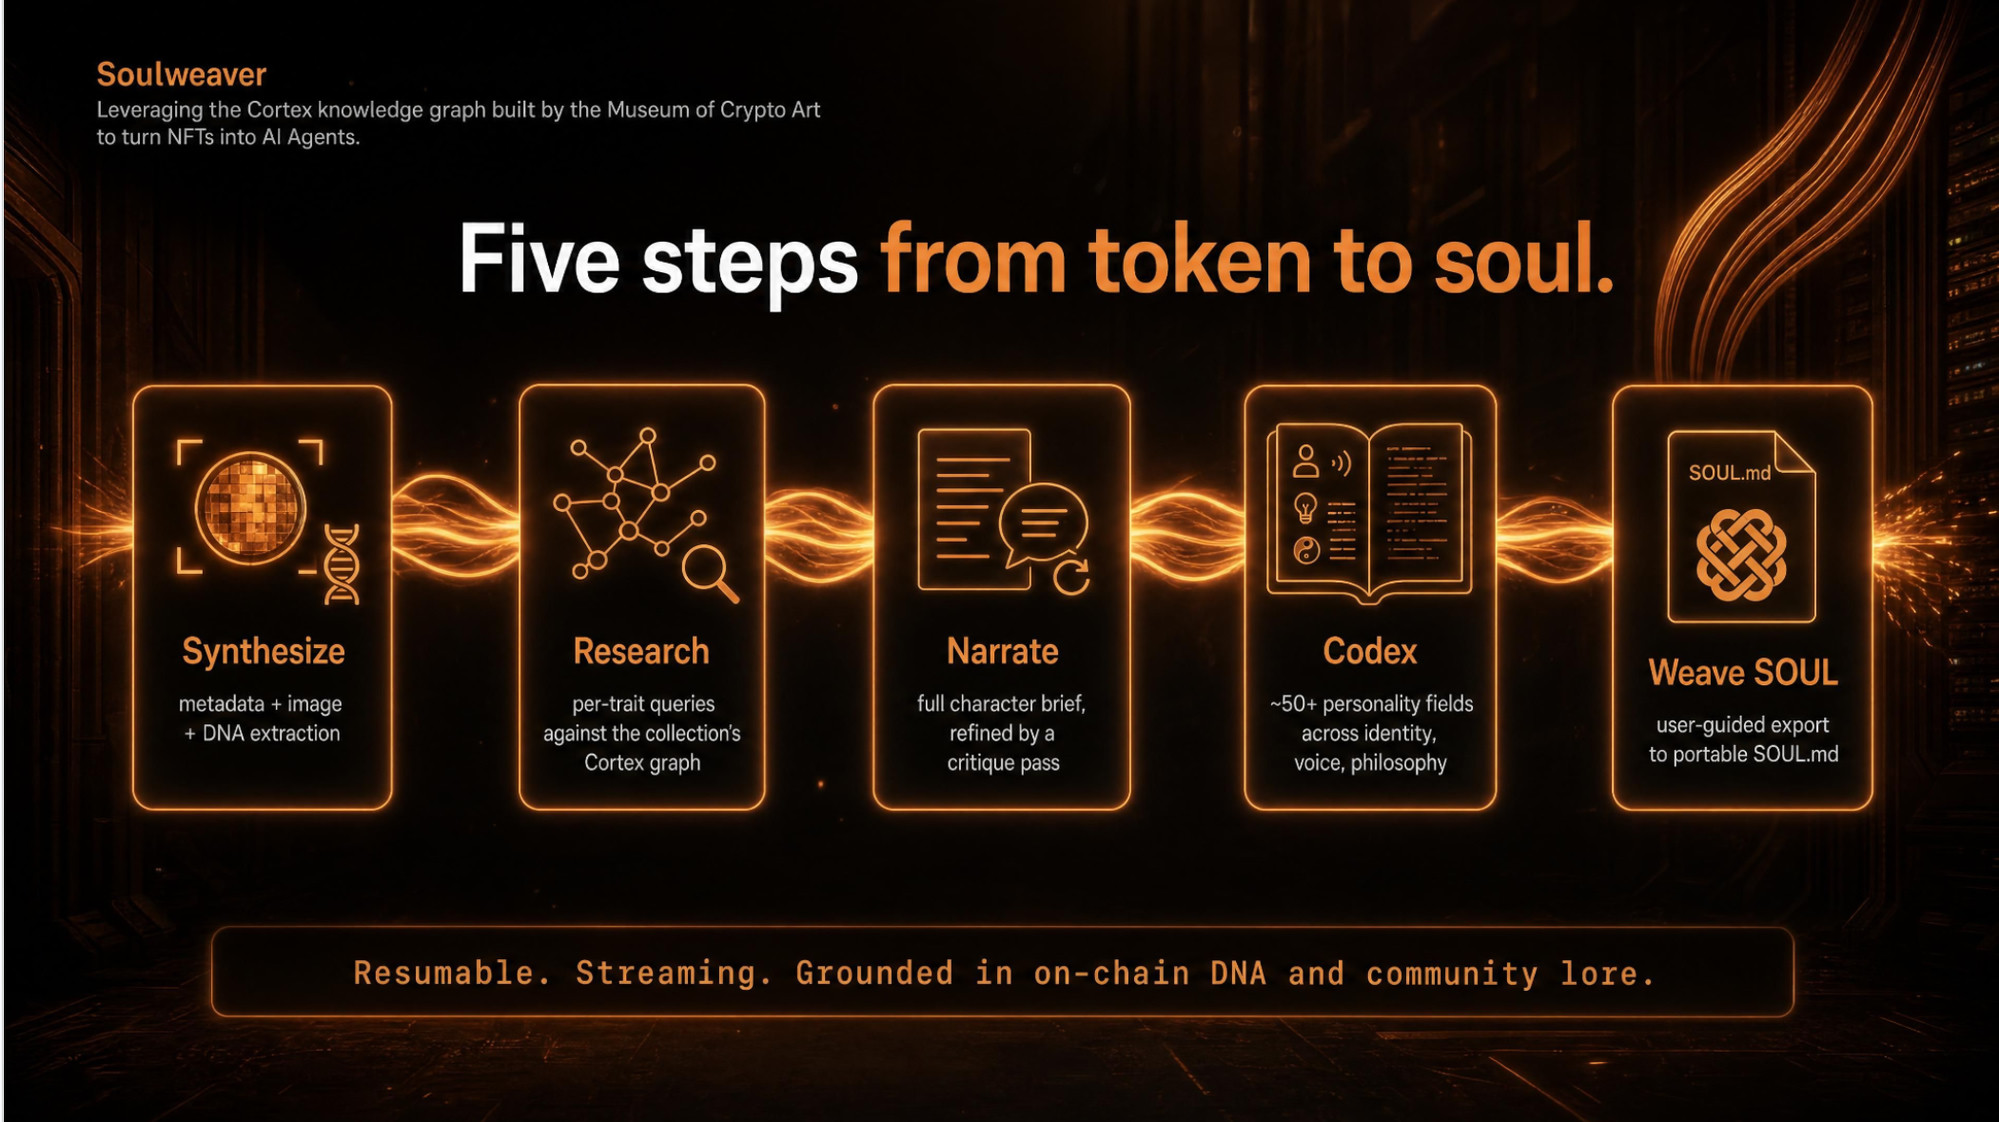
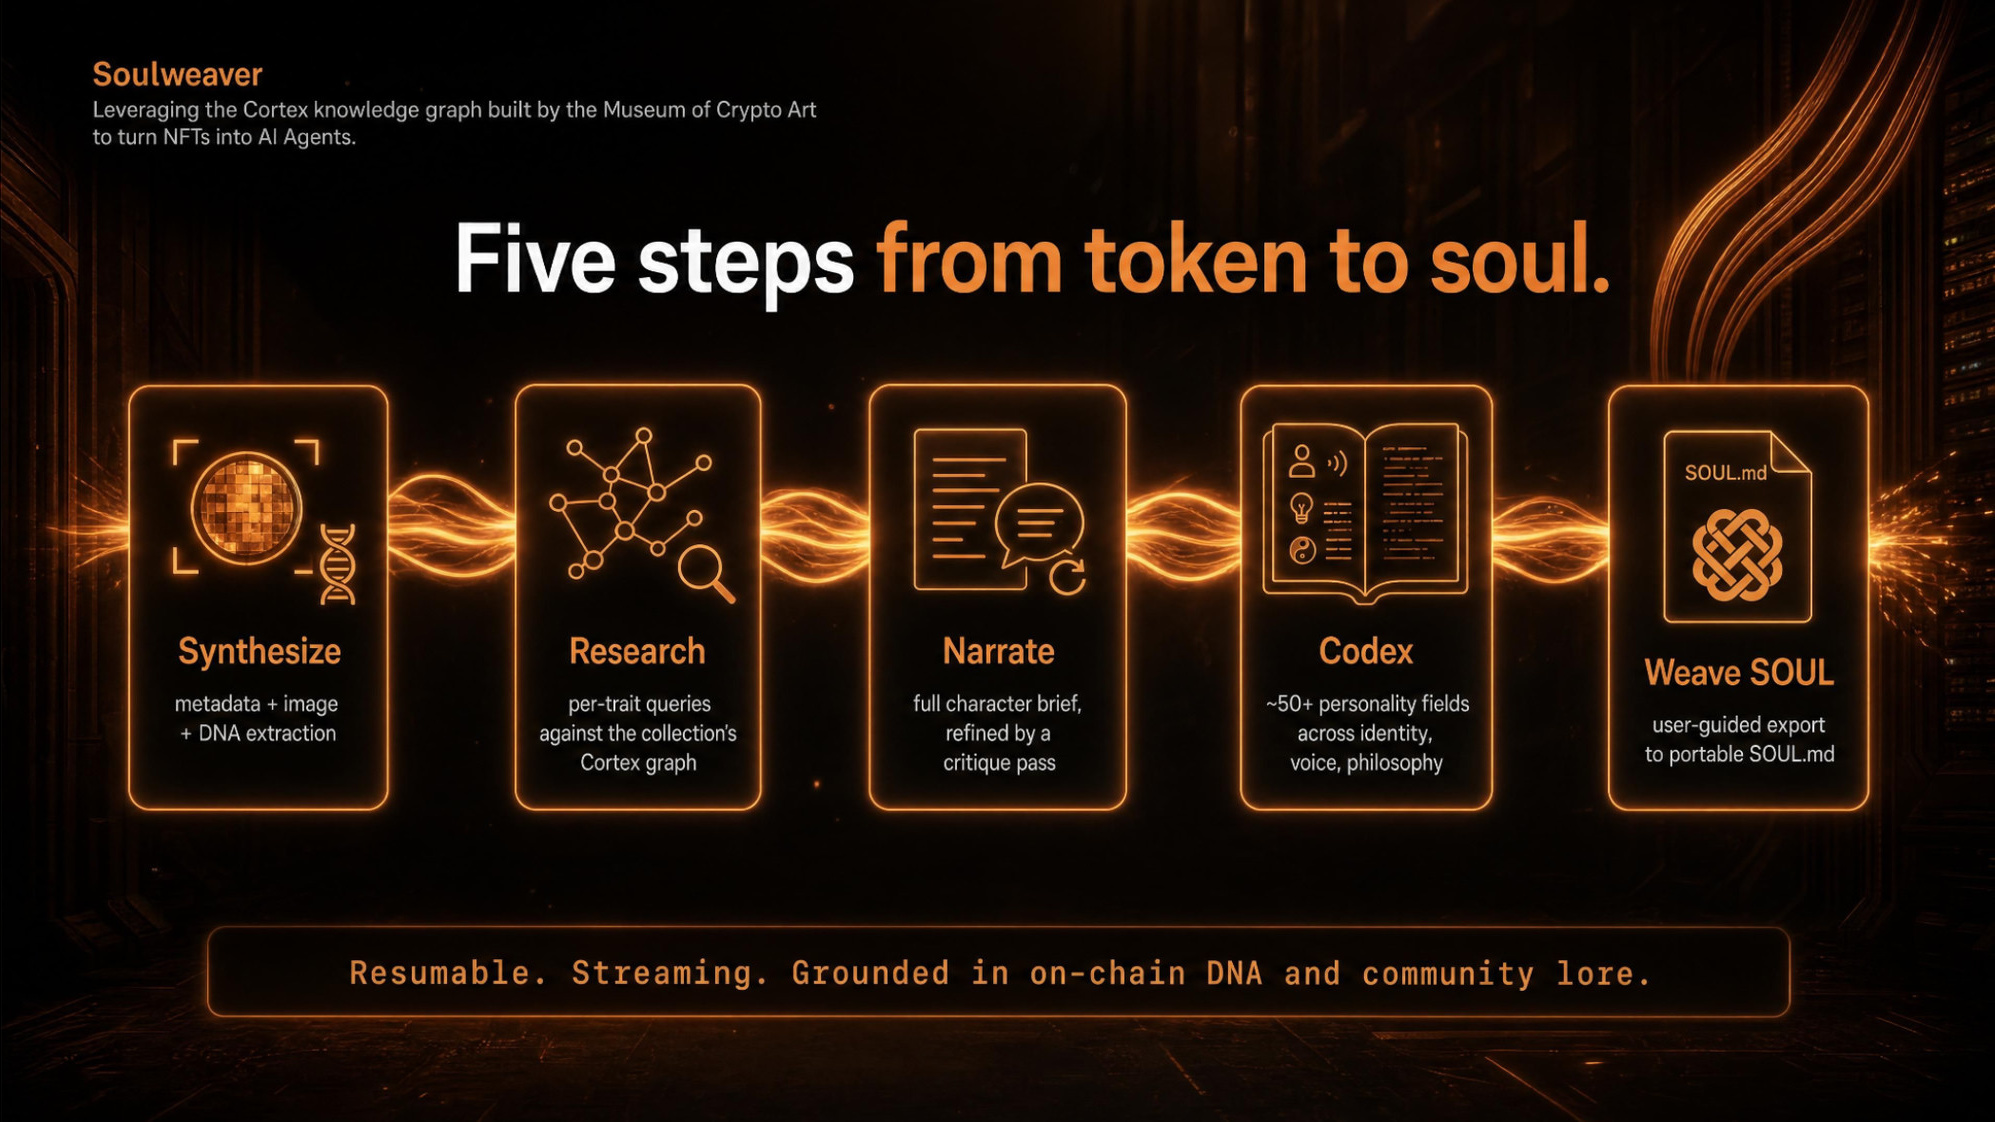
hotix

diff --git a/apps/museum/src/components/site/SiteFooter.tsx b/apps/museum/src/components/site/SiteFooter.tsx
@@ -32,6 +32,7 @@ const EXTERNAL = [
   { href: "https://docs.cortex.eco", label: "Cortex Docs" },
   { href: "https://docs.decc0s.com", label: "DeCC0s Docs" },
   { href: "https://github.com/mocaOS", label: "GitHub" },
+  { href: "https://museumofcrypto.substack.com/", label: "Newsletter" },
 ];
 
 export default function SiteFooter() {

diff --git a/apps/museum/src/components/site/SiteHeader.tsx b/apps/museum/src/components/site/SiteHeader.tsx
@@ -10,7 +10,6 @@ const NAV = [
   { href: "/exhibitions", label: "MOCA ROOMs" },
   { href: "/writings", label: "Writings" },
   { href: "/timeline", label: "Timeline" },
-  { href: "https://museumofcrypto.substack.com/", label: "Newsletter", external: true },
   { href: "https://codex.decc0s.com/", label: "Art DeCC0s", external: true },
   { href: "https://vibe.museumofcryptoart.com/", label: "Vibe Studio", external: true },
 ];